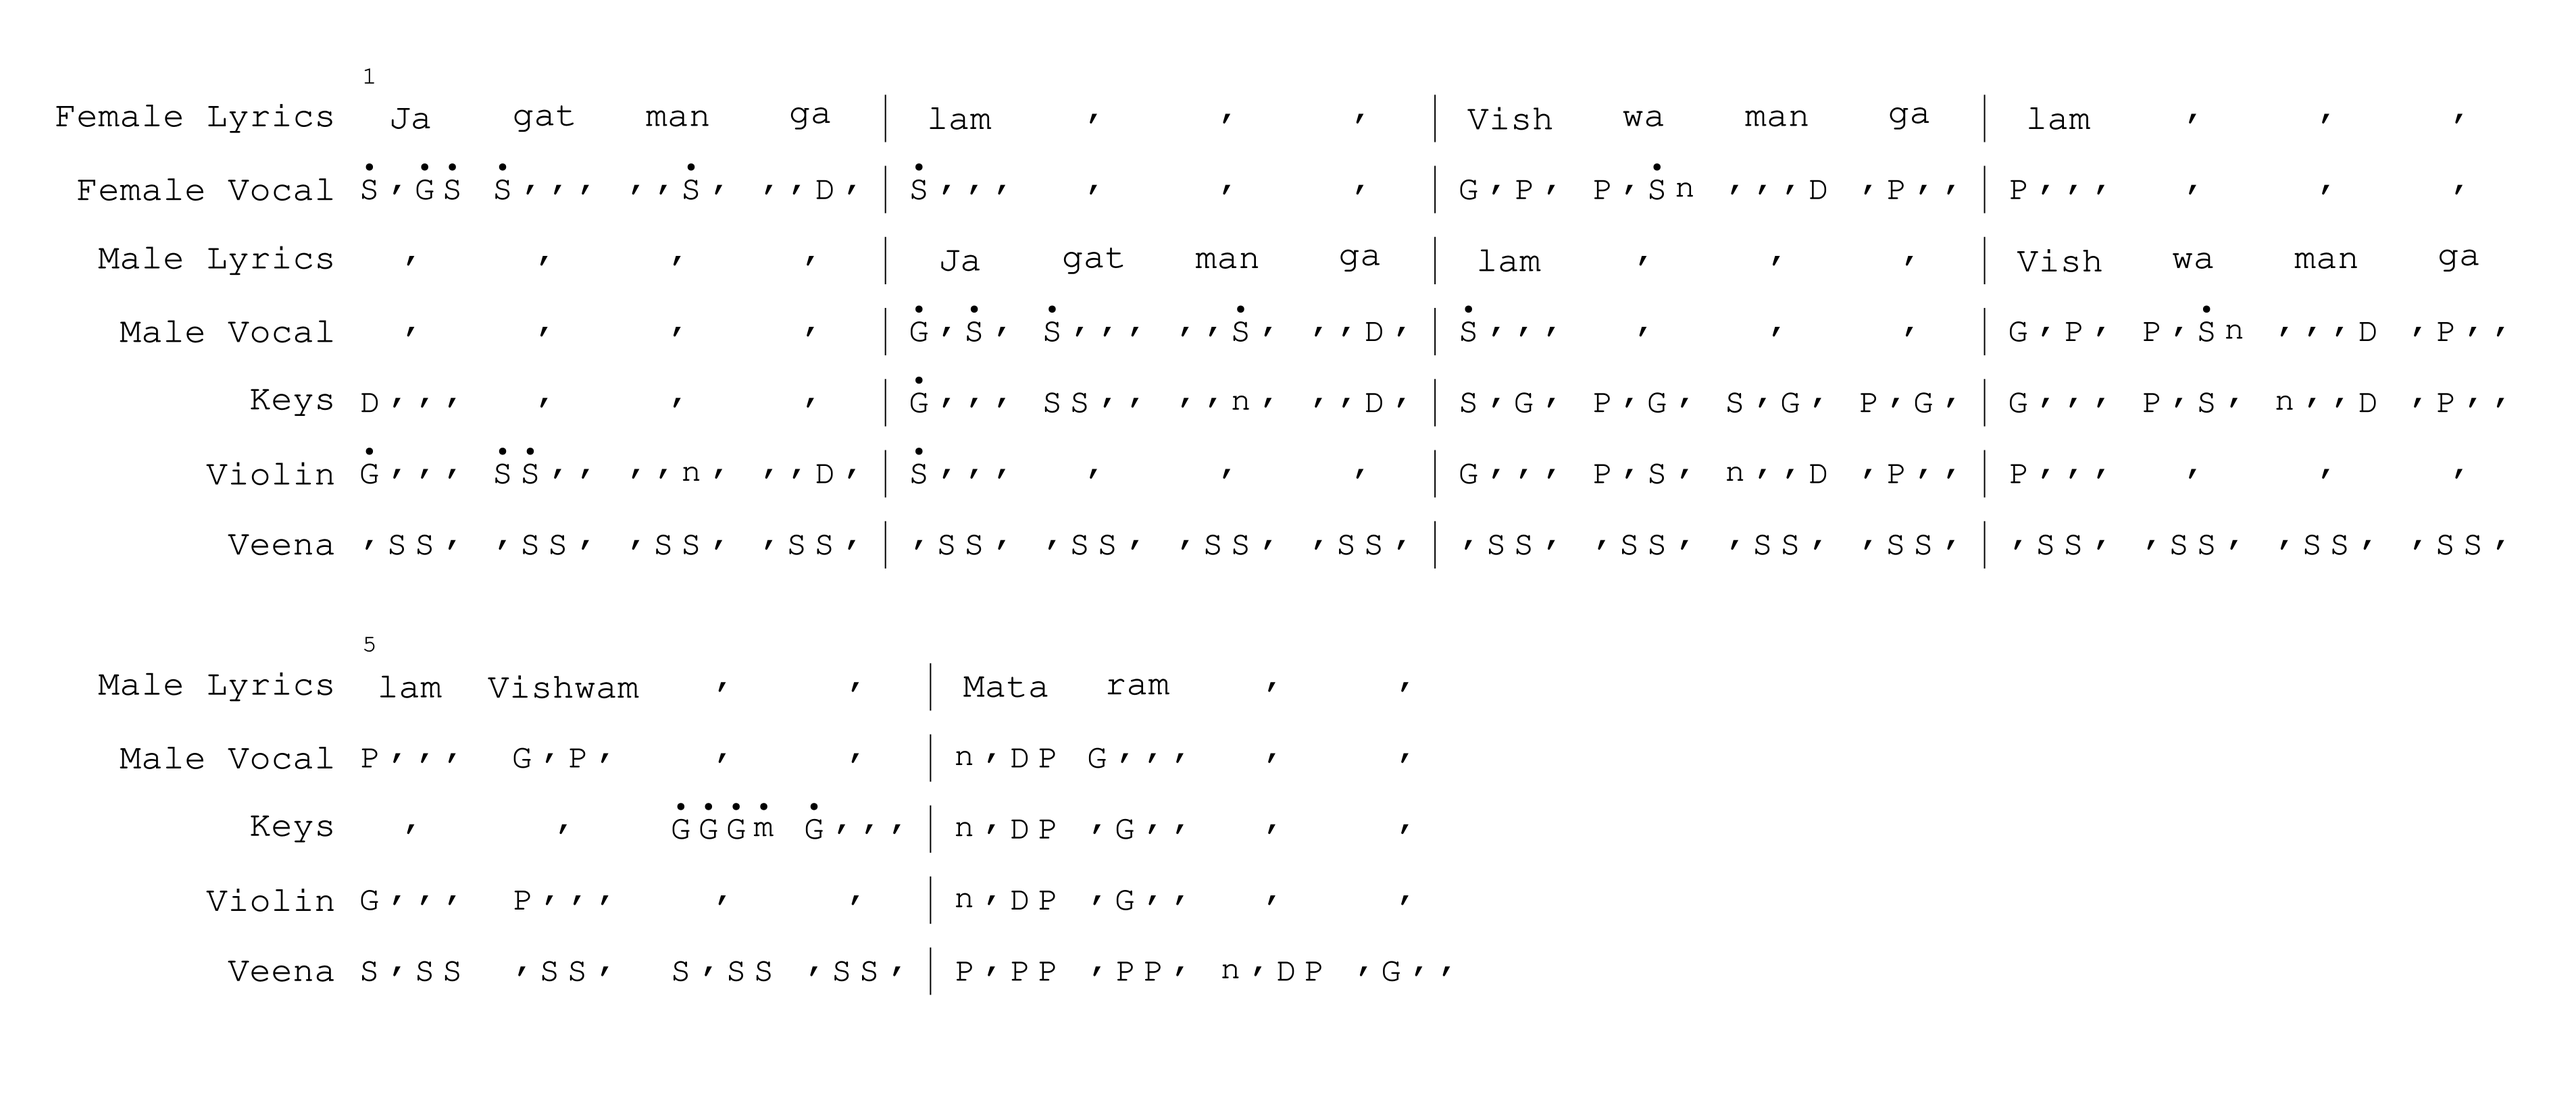
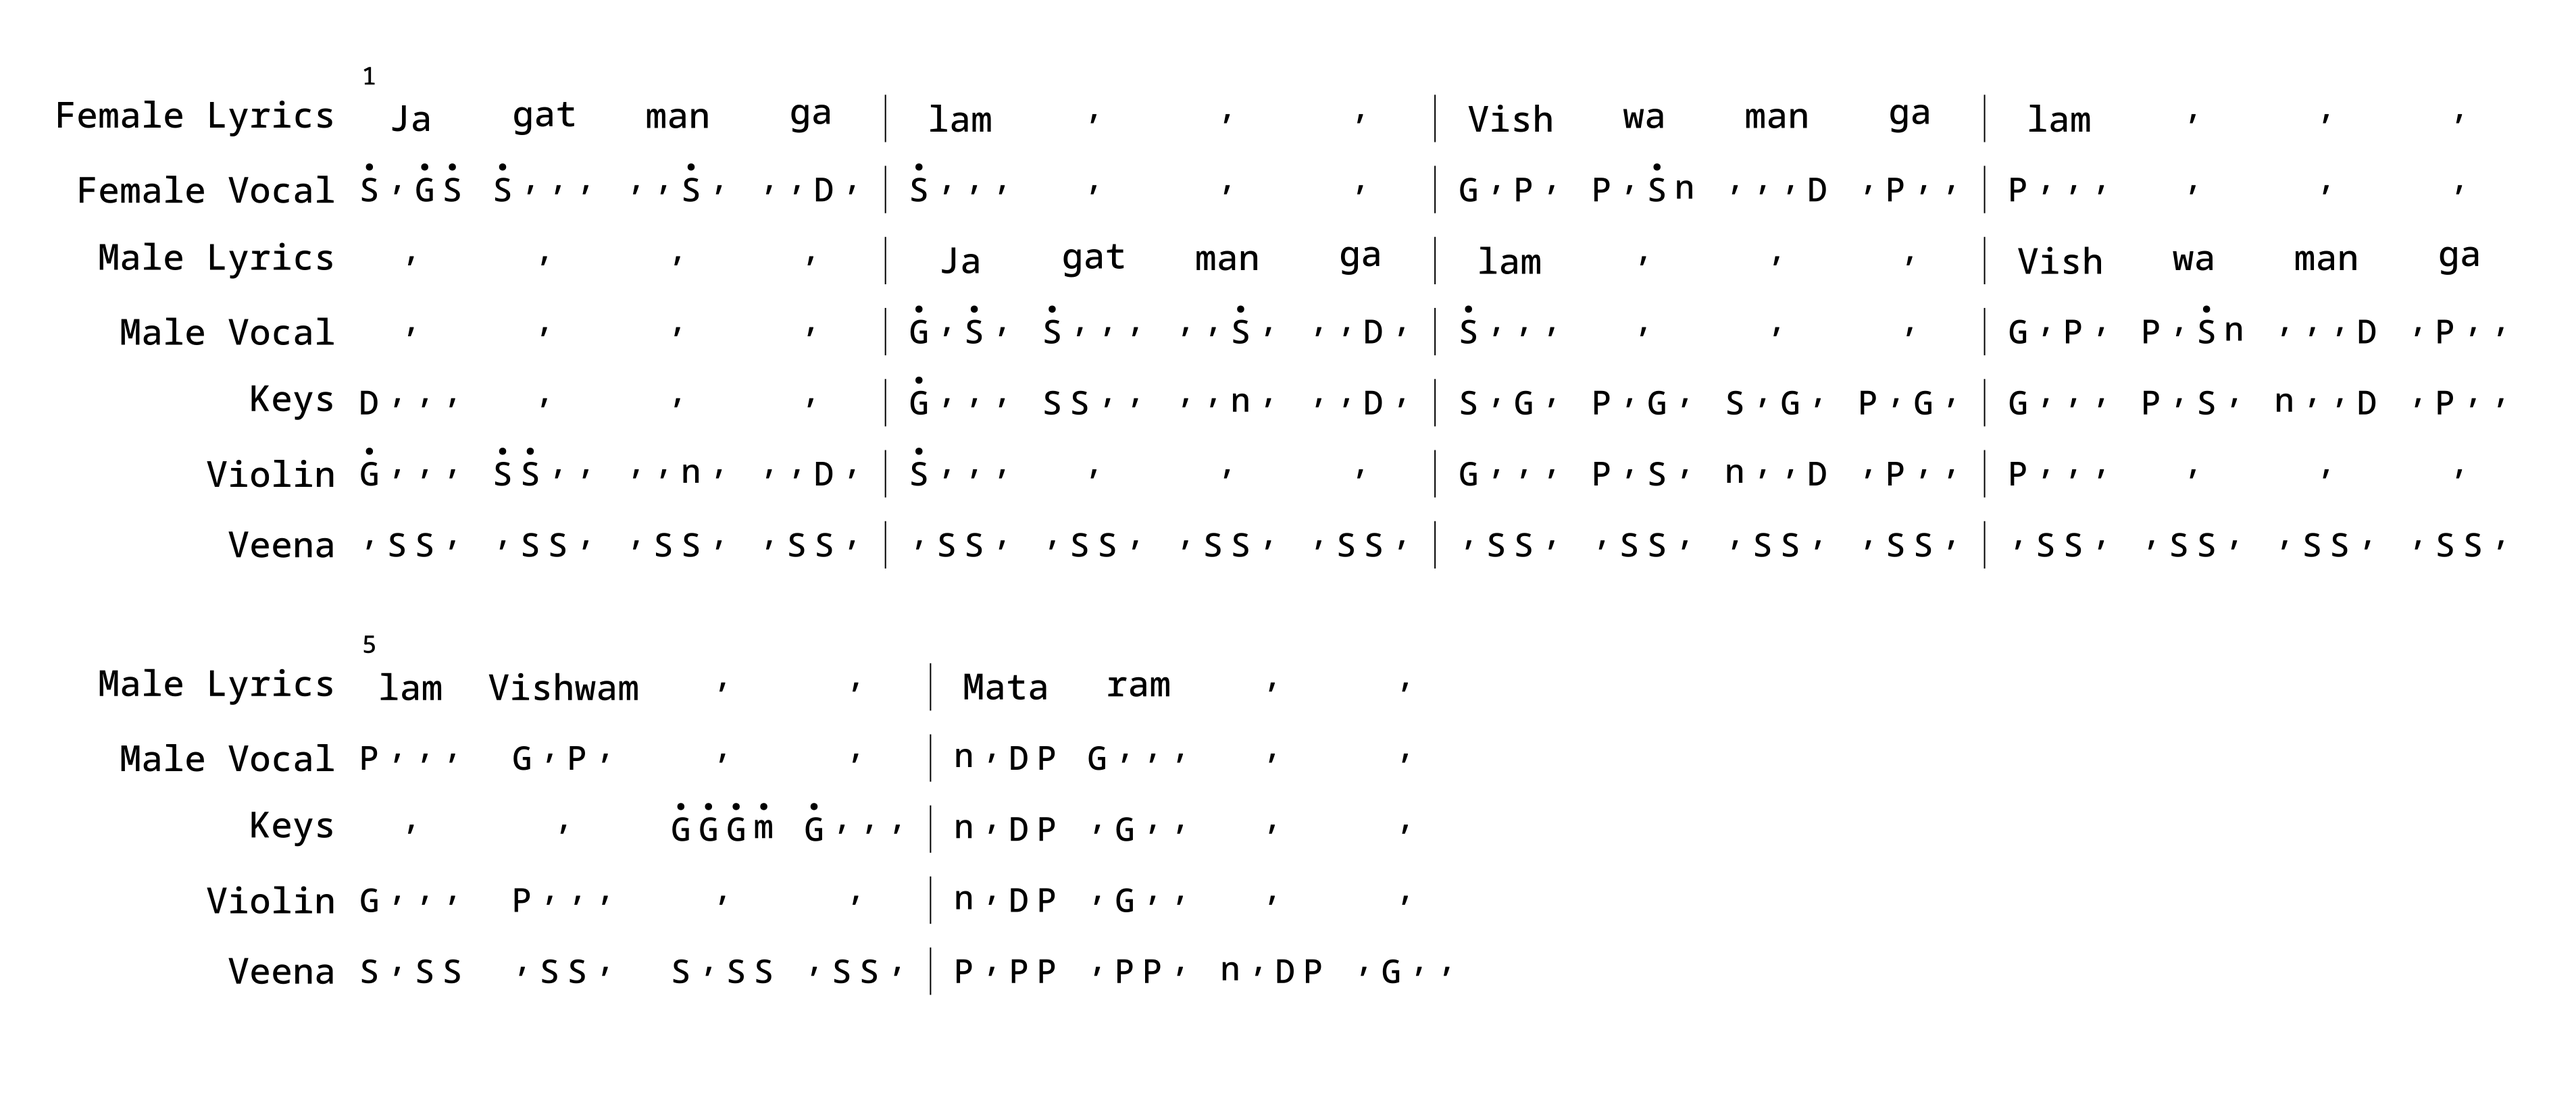
Make scores rendered to be pdf instead of png

diff --git a/README.md b/README.md
@@ -24,7 +24,7 @@ dune build
 dune exec ./bin/main.exe example/test.txt
 ```
 
-The rendered score `example/test.png` will be generated.
+The rendered score `example/test.pdf` will be generated.
 
 
 ## Swara scribe syntax
@@ -69,8 +69,8 @@ Raw swara scribe input:
 [Veena] S.SS .SS. S.SS .SS. | P.PP .PP. n.DP .G..
 ```
 
-Rendered score:
-![Rendered score](./example/test.png)
+Rendered snippet:
+![Rendered snippet](./example/test.png)
 
 
 ## Future plans
